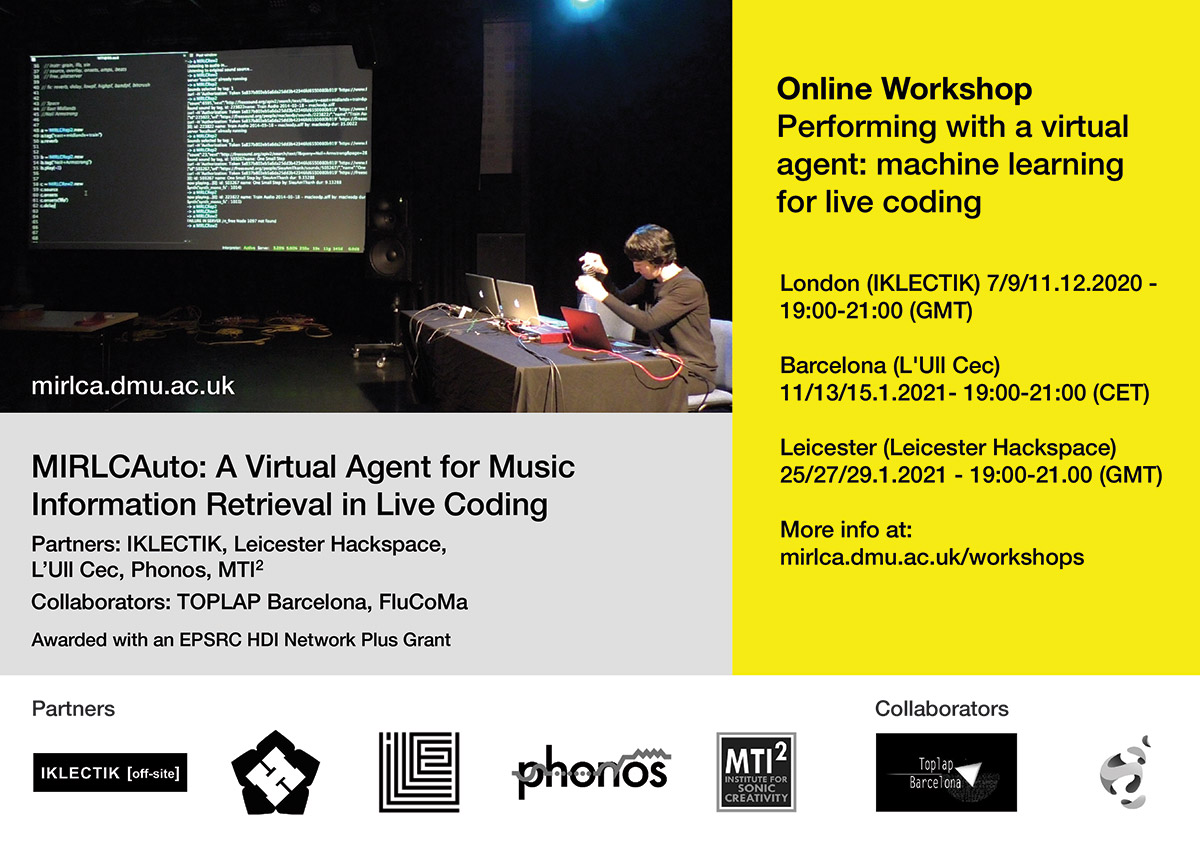
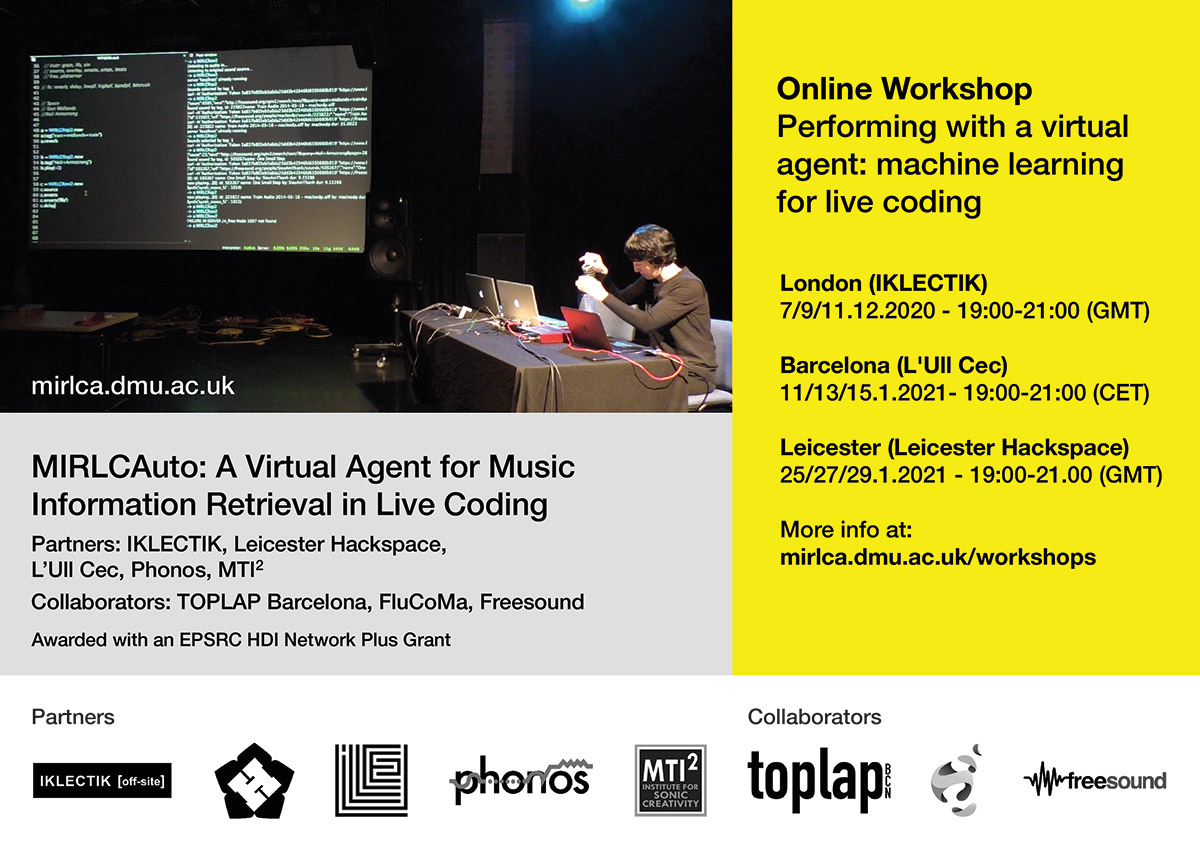
added blog post

diff --git a/css/index.css b/css/index.css
@@ -364,3 +364,17 @@ figcaption{
 .table-cell-left, .table-cell-right {
   padding: 0 1em 2em 0;
 }
+
+.darkhighlight{
+  background-color: #FFFF00;
+}
+
+.lighthighlight{
+  background-color: #FFFFCC;
+}
+
+.lighthighlightbox{
+  padding:1.5em 1.5em;background-color: #DEDEDE;
+  border-radius: 1em;
+  margin: 0 0 2em 0;
+}

diff --git a/posts/diferentes-sonidos-similares-entrevista-con-hernani-villasenor.md b/posts/diferentes-sonidos-similares-entrevista-con-hernani-villasenor.md
@@ -1,0 +1,66 @@
+---
+title: 'Diferentes Sonidos Similares: Una Entrevista con Hernani Villaseñor'
+author: Sam Roig y Anna Xambó
+description: "Este es el primer blog post de una serie de entrevistas con participantes del taller con l'ull cec sobre la continuación de un trabajo en progreso."
+date: 2021-01-28
+tags:
+  - research
+  - interviews
+  - videos
+  - live-coding sessions
+  - workshops
+layout: layouts/post.njk
+---
+
+<span class="lighthighlight">*You can read the interview in English [here](/posts/different-similar-sounds-interview-with-hernani-villasenor/)*</span>
+
+<figure>
+<img src="../../img/Hernani_Villasenor_photo_by_Alejandra_Alvarez.jpg" width="100%" class="responsive" />
+<figcaption>Hernani Villaseñor. Photo by Alejandra Alvarez.</figcaption>
+</figure>
+
+<div class="lighthighlightbox">
+
+**Hernani Villaseñor** es un músico mexicano interesado en sonido, código e improvisación. Actualmente está haciendo el doctorado en el Programa de Posgrado en Música de la Universidad Nacional Autónoma (UNAM) de México. Como músico, interpreta e improvisa música de computadora con código fuente en un rango que va desde el techno hasta el sonido experimental. Ha colaborado con diferentes artistas en el campo del cine, video experimental, fotografía y música en red. Ha actuado en muchos lugares y participado en diversas conferencias en países de América, Europa y el Ciberespacio. 
+[http://www.hernanivillasenor.com](http://www.hernanivillasenor.com) 
+
+</div>
+
+## Vídeo "Different Similar Sounds: A Virtual Agent in Live Coding. A Work in Progress"
+
+**Sobre el vídeo**: Live coding va sobre intentar y fallar. En este estado de ánimo, grabaré algunos intentos durante el proceso de probar y ensayar con una nueva herramienta de live coding en mi flujo de trabajo creativo. El video muestra un fragmento de tiempo del largo proceso que implica lidiar con el sonido, el código, la escucha y las formas de hacer. 
+
+<iframe class="responsive-video" width="640" height="361" src="https://www.youtube.com/embed/yv_6M-ssC0Q" frameborder="0" allow="accelerometer; autoplay; clipboard-write; encrypted-media; gyroscope; picture-in-picture" allowfullscreen>
+</iframe>
+
+## Cuéntanos un poco sobre ti y sobre tu práctica artística con live coding...
+
+Me llamo Hernani, soy músico y vivo en la ciudad de México, donde actualmente hago un doctorado en tecnología musical en la [UNAM](https://www.unam.mx/). Conocí el live coding en un taller de SuperCollider que tomé en el Centro Multimedia, en México, alrededor del 2009 y desde entonces me he involucrado en la práctica, la difusión y últimamente en la investigación y el desarrollo tecnológico. Me interesa el live coding desde cero, tanto solista como en grupo interconectado, por las posibilidades de auto aprendizaje e intercambio de conocimientos con las comunidades de practicantes. Mi aproximación al live coding es muy rítmica, me gusta usar patrones (Patterns) para secuenciar sintetizadores (SynthDef) y desde hace unos dos años he comenzado a trabajar con sonido grabado en el momentos mismo de las presentaciones. Para ello comencé a desarrollar una serie de clases y presentaciones bajo el concepto de SonoTexto (sonido + texto) en referencia al trabajo con señal de audio y código computacional.
+
+## Qué te motivó para apuntarte al taller?
+
+Primero que las personas que lo impartieron las conocí hace tiempo, en el ámbito del live coding, y me gusta su trabajo, de cierta forma he seguido el proyecto de MIRLC desde su primera versión, ya que estoy interesado en el live coding con sonidos situados, o sea, aquellos que la gente graba en su entorno con lo que tiene a la mano. Algo que también me interesó fue conocer las posibilidades del Machine Learning en el live coding y el acceso a bancos de sonidos grabados con las características que mencioné antes. Y por último, el hecho de escuchar de primera mano las ideas y conceptos detrás del desarrollo de esta tecnología.
+
+## Tenías alguna experiencia práctica previa con machine learning antes de atender este taller?
+
+No mucha, he leído acerca del tema y sigo el trabajo de algunxs artistas-programadorxs que hacen música e investigación al respecto, de quienes he aprendido términos y conceptos, viendo cómo realizan sus prácticas sonoras computacionales y escuchando su trabajo. También probé un poco estas técnicas durante un taller de [Sema](https://sema.codes/) el año pasado. Eso es todo, en realidad podría decir que en la práctica no he tenido experiencia hasta antes del taller.
+
+## Cómo has enfocado la producción de tu propuesta de vídeo?
+
+Partí del live coding from scratch, una práctica común en México. De esta forma aprendes cómo funciona un lenguaje a prueba y error, escribiendo directo en el documento y escuchando el resultado. Así que me dí a la tarea de explorar los tutoriales de MIRLCa, memorizar métodos y empezar a escribir al vuelo. Comencé entrenado algunos modelos y en este proceso traté de entender qué sucedía con el sonido en relación a los conjuntos de datos generados, esta parte fue algo confusa pero una vez que logré aproximaciones al 80% de precisión pasé a la parte de hacer live coding con la ayuda del agente generado.
+
+En la etapa posterior al entrenamiento probé varios flujos de trabajo, primero usé solo MIRLCa, luego traté de combinarla con una clase que escribí en SuperCollider para leer los archivos de sonido de una carpeta e incluso traté de realizar algunas rutinas para secuenciar los sonidos. Al final decidí usar la clase sola pues fue más fácil entender qué estaba sucediendo con los sonidos que descargaba el agente.
+
+Algo que me interesa mostrar en los streamings, además del código, es la acción de la escritura sobre el teclado. Así que para esta ocasión pensé que podía sobreponer dos editores: Emacs con fondo transparente corriendo MIRLCa y Atom debajo corriendo [Hydra](https://hydra.ojack.xyz/) para capturar la escritura con una cámara web. Con esta configuración hice varios videos con un software de captura de pantalla y escogí el que más me gustó.
+
+## Cómo te imaginas integrar la herramienta que hemos utilizado (MIRLCa) a tu trabajo?
+
+Me imagino dos formas: en el momento y posterior. La primera es con el agente de MIRLCa, tal cual está diseñado. Por un lado, la interfaz es simple y fácil de usar, por otro, es muy potente el concepto de trabajar con la totalidad de sonidos de una plataforma como [Freesound](https://freesound.org/). La segunda forma es explorar los sonidos que se descargan durante el proceso de entrenamiento del modelo, aquí pensaría en integrar MIRLCa con otras clases y lenguajes de programación para hacer live coding de diferentes maneras, por ejemplo, secuencias más complejas o el uso de envolventes.
+
+## Danos un ejemplo (especulativo) de cómo imaginas machine learning aplicado a la práctica de live coding en el futuro
+
+Me imagino el incremento de la oralidad en la práctica de live coding, tanto escrita como hablada, es decir, que el código del performance será de un nivel muy alto y casi siempre desde cero, como una conversación cotidiana. Al mismo tiempo creo que será posible manejar grandes cantidades de datos y procesamiento en el mismo momento de la presentación; en este sentido, me imagino una hiperparametrización del sonido y la imagen con muy pocos comandos. Es posible que a partir del habla podamos dictar los comandos a la computadora, en una especie de programación verbal. Por otro lado, el entrenamiento de modelos en vivo se acercará más a convertirse en el propio performance, algo que de cierta manera ya sucede. 
+
+## Tienes cualquier otra idea que te gustaría compartir con nosotrxs?
+
+Sí claro, hay que decir que el proceso durante el taller y la elaboración de este video es compartido, la facilidad que muestra el uso de esta tecnología depende del desarrollo de la herramienta, la escritura de los tutoriales, los sonidos que comparte la gente en Freesound, así como la retroalimentación y seguimiento que hicieron Anna y Sam, quienes contestaron nuestras preguntas, accedieron a cambiar el código de MIRLCa y escucharon nuestras ideas. Además de lo anterior, el trabajo final está inspirado por el intercambio de ideas entre quienes participamos en el taller. Creo que el resultado es un buen ejemplo del entusiasmo por compartir, aprender, enseñar y develar lo oculto de la tecnología, algo que el live coding ha absorbido de las culturas hacker y networking y que se ve reflejado en la investigación, el desarrollo tecnológico y la práctica artística tanto de manera formal como anárquica, que en palabras de Sam nos convierten, más que en live coders, en life coders. 

diff --git a/posts/different-similar-sounds-interview-with-hernani-villasenor.md b/posts/different-similar-sounds-interview-with-hernani-villasenor.md
@@ -1,0 +1,67 @@
+---
+title: 'Different Similar Sounds: An Interview with Hernani Villaseñor'
+author: Sam Roig and Anna Xambó
+description: "This is the first blog post of a series of interviews with workshop attendees from the workshop with l'ull cec about follow-up work in progress."
+date: 2021-01-28
+tags:
+  - research
+  - interviews
+  - videos
+  - live-coding sessions
+  - workshops
+layout: layouts/post.njk
+---
+
+<span class="lighthighlight">*You can read the original interview in Spanish [here](/posts/diferentes-sonidos-similares-entrevista-con-hernani-villasenor/)*</span>
+
+<figure>
+<img src="../../img/Hernani_Villasenor_photo_by_Alejandra_Alvarez.jpg" width="100%" class="responsive" />
+<figcaption>Hernani Villaseñor. Photo by Alejandra Alvarez.</figcaption>
+</figure>
+
+<div class="lighthighlightbox">
+
+**Hernani Villaseñor** is a Mexican musician interested in sound, code and improvisation. He is currently doing a PhD at the Music Graduate Program of the National Autonomous University (UNAM) of Mexico. As a musician he performs and improvises computer music with source code in a range from techno to experimental sound. He has collaborated with different artists in the field of cinema, experimental video, photography and network music. He has performed in many venues and participated in diverse conferences in countries of America, Europe and the Cyberspace.
+[http://www.hernanivillasenor.com](http://www.hernanivillasenor.com)
+
+</div>
+
+## Video "Different Similar Sounds: A Virtual Agent in Live Coding. A Work in Progress"
+
+**About the video**: Live coding is about try and fail. In this mood I will record some attempts during the process of trying and rehearsing with a new live coding tool in my creative workflow. The video shows a fragment of time of the long process that involves to deal with sound, code, listening and ways of doing.
+
+<iframe class="responsive-video" width="640" height="361" src="https://www.youtube.com/embed/yv_6M-ssC0Q" frameborder="0" allow="accelerometer; autoplay; clipboard-write; encrypted-media; gyroscope; picture-in-picture" allowfullscreen>
+</iframe>
+
+
+## Tell us a bit about you and your artistic practice in live coding...
+
+My name is Hernani. I'm a musician living in Mexico City, where I'm currently doing a PhD in music technology at [UNAM}(https://www.unam.mx/).  became acquainted with live coding in a SuperCollider workshop, which I took at the Centro Multimedia, in Mexico, around 2009. Since then, I've been involved in the practice, diffusion and lately in research and technological development. I am interested in live coding from scratch, both solo and in a networked group, because of the possibilities for self-learning and knowledge exchange with communities of practitioners. My approach to live coding is very rhythmic. I like to use patterns (Patterns) to sequence synthesizers (SynthDef). Since about two years ago I started to work with sounds recorded at the very moment of the performance. For this, I began to develop a series of classes and presentations under the concept of SonoText (sound + text) about working with an audio signal and computer code.
+
+## What motivated you to sign up for the workshop?
+
+First of all, I met the people who gave the workshop some time ago, in the live coding scene, and I like their work. Somehow, I have followed the MIRLC project since its first version. I am interested in live coding with situated sounds, that is, sounds recorded by people in their environment with what they have at hand. Something that also interested me was to learn about the possibilities of Machine Learning in live coding and the access to banks of recorded sounds with the characteristics I mentioned earlier. And finally, hearing first hand about the ideas and concepts behind the development of this technology.
+
+## Did you have any prior hands-on experience with machine learning before attending this workshop?
+
+Not much. I have read about it and follow works of some artists-programmers who make music and research about it. I have learned from them terms and concepts when seeing how they perform their computational sound practices and listening to their work. I also tried a little bit of these techniques during a [Sema](https://sema.codes/)  workshop last year. That's all, actually. I could say that, in practice, I have had no experience until this workshop.
+
+## How did you approach the production of your video submission?
+
+I started with live coding from scratch, a common practice in Mexico. This way, you learn how a language works by trial and error, writing directly in the document and listening to the result. So I set out to explore the MIRLCa tutorials, memorize methods and start writing on the fly. I began by training some models and, in this process, I tried to understand what was happening with the sound in relation to the generated datasets, this part was a bit confusing yet once I got close to 80% accuracy I moved on to the live coding part with the help of the generated agent.
+
+In the post-training stage, I tried several workflows. First, I used only MIRLCa, then I combined it with a class I wrote in SuperCollider to read the sound files from a folder. I even tried to make some routines to sequence the sounds. In the end, I decided to use the class alone as it was easier to understand what was happening with the sounds downloaded by the agent.
+
+Something that I am interested in showing in the streamings, besides the code, is the action of typing on the keyboard. So for this occasion, I thought I could superimpose two editors: Emacs with a transparent background running MIRLCa and, underneath, Atom running Hydra for capturing the typing with a webcam. I made several videos with this configuration using a screen capture software and chose the one I liked the most.
+
+## How do you envision integrating the tool we have used (MIRLCa) to your own work?
+
+I imagine two ways: at the moment and afterwards. The first one is with the MIRLCa agent, as it is designed. On the one hand, the interface is simple and easy to use. On the other hand, the concept of working with all the sounds of a platform like [Freesound](https://freesound.org/) is very powerful. The second way is to explore the sounds that are downloaded during the training process of the model. Here I would consider integrating MIRLCa with other classes and programming languages to do live coding in different ways. More complex sequences or the use of envelopes, for example.
+
+## Give us a (speculative) example of how you imagine machine learning being applied to the practice of live coding in the future.
+
+I imagine the increase of orality in the practice of live coding, both written and spoken. The performance code will be of a very high level, and almost always from scratch, as an everyday conversation. At the same time, I believe that it will be possible to handle large amounts of data and processing at the same moment of the presentation. In this sense, I imagine a hyper-parametrization of sound and image with very few commands. Possibly we will be able to dictate commands to the computer from speech, in a kind of verbal programming. On the other hand, the training of live models will come closer to becoming the performance itself, something that somehow it is already happening.
+
+## Do you have any other ideas that you would like to share with us?
+
+Yes, of course. It must be said that the process during the workshop and the elaboration of this video has been shared. The ease of use of this technology depends on: the development of the tool, the writing of the tutorials, and the sounds that people share in Freesound, as well as the feedback and follow-up that Anna and Sam did, who answered our questions, agreed to change the code of MIRLCa and listened to our ideas. In addition to the above, the final work is inspired by the exchange of ideas between those who participated in the workshop. I think the result is a good example of the enthusiasm for sharing, learning, teaching and unveiling the hidden side of technology, something that live coding has absorbed from hacker and network cultures. This is reflected in the research, technological development and artistic practice in both formal and anarchic ways, which in Sam's terms make us, more than live coders, life coders. 

diff --git a/workshops/index.md b/workshops/index.md
@@ -13,12 +13,12 @@ Please note that **the same workshop will be delivered online in collaboration w
 
 <!-- **<span style="background-color: #FFFF00">Registration to the Online Workshop is Open!!**</span> All participants are welcome to register to our forthcoming workshop completing the online registration at the following link: -->
 
-* **London (IKLECTIK) 7/9/11.12.2020 - 19:00-21:00 (GMT)**: Closed.
+* **London (IKLECTIK) 7/9/11.12.2020 - 19:00-21:00 (GMT)**: <span class="lighthighlight">Closed</span>.
 <br />
-* **Barcelona (L'Ull Cec) 11/13/15.1.2021- 19:00-21:00 (CET)**: Closed.
+* **Barcelona (L'Ull Cec) 11/13/15.1.2021- 19:00-21:00 (CET)**: <span class="lighthighlight">Closed</span>.
 A translation of this text to Catalan and Spanish can be found here: [**Catalan**](/workshops/ca/) | [**Spanish**](/workshops/sp/)
 <br />
-* **Leicester (Leicester Hackspace) 25/27/29.1.2021 - 19:00-21.00 (GMT)**: <br />  <span style="background-color: #FFFF00">[https://de-montfort.onlinesurveys.ac.uk/online-workshop-registration-mirlca-leicester-hackspace](https://de-montfort.onlinesurveys.ac.uk/online-workshop-registration-mirlca-leicester-hackspace)</span>
+* **Leicester (Leicester Hackspace) 25/27/29.1.2021 - 19:00-21.00 (GMT)**: <br /> <span class="lighthighlight">Closed</span>.
 
 
 <!-- * **London (IKLECTIK) 7/9/11.12.2020 - 19:00-21:00 (GMT)**:<br /> [https://de-montfort.onlinesurveys.ac.uk/online-workshop-registration-mirlca-london-iklectik](https://de-montfort.onlinesurveys.ac.uk/online-workshop-registration-mirlca-london-iklectik) (Closed) -->
@@ -81,7 +81,7 @@ This workshop is free, but pre-registration is required. All participants are we
 <!-- * **Barcelona (L'Ull Cec) 11/13/15.1.2021- 19:00-21:00 (CET)**: <br /> <span style="background-color: #FFFF00">[https://de-montfort.onlinesurveys.ac.uk/online-workshop-registration-mirlca-barcelona-lullcec](https://de-montfort.onlinesurveys.ac.uk/online-workshop-registration-mirlca-barcelona-lullcec)</span> -->
 <!-- A translation of this text to Catalan and Spanish can be found here: [**Catalan**](/workshops/ca/) | [**Spanish**](/workshops/sp/) -->
 <!-- <br /> -->
-* **Leicester (Leicester Hackspace) 25/27/29.1.2021 - 19:00-21.00 (GMT)**: <br />  <span style="background-color: #FFFF00">[https://de-montfort.onlinesurveys.ac.uk/online-workshop-registration-mirlca-leicester-hackspace](https://de-montfort.onlinesurveys.ac.uk/online-workshop-registration-mirlca-leicester-hackspace)</span>
+<!-- * **Leicester (Leicester Hackspace) 25/27/29.1.2021 - 19:00-21.00 (GMT)**: <br />  <span style="background-color: #FFFF00">[https://de-montfort.onlinesurveys.ac.uk/online-workshop-registration-mirlca-leicester-hackspace](https://de-montfort.onlinesurveys.ac.uk/online-workshop-registration-mirlca-leicester-hackspace)</span> -->
 
 
 ### Dates / Duration

diff --git a/workshops/sp/index.md b/workshops/sp/index.md
@@ -41,6 +41,11 @@ La actividad es gratuita, pero requiere inscripción previa. Puedes registrarte 
 
 Se enviarán las instrucciones de instalación a los registrados al taller antes de que comience el taller en la forma de texto o vídeo (principalmente relacionado con la instalación de SuperCollider, Freesound quark, MIRLC y las herramientas de FluCoMa). También se os enviará una invitación a la reunión en Zoom. Los/las participantes trabajarán en equipo (a través del entorno Zoom).
 
+### Instructores
+
+Sam Roig
+Anna Xambó
+
 ## Contacto
 
 Anna Xambó: anna.xambo@dmu.ac.uk

diff --git a/workshops/ca/index.md b/workshops/ca/index.md
@@ -42,6 +42,11 @@ L’activitat és gratuïta, però cal inscripció prèvia. Podeu registrar-vos 
 
 S'enviaran les instruccions d'instal.lació als enregistrats al taller abans de que comenci el taller en la forma de text o vídeo (principalment relacionat amb la instal.lació de SuperCollider, Freesound quark, MIRLC i les eines de FluCoMa). També se us enviarà una invitació a la reunió en Zoom. Els participants treballaran en equip (a través de l'entorn Zoom).
 
+### Instructors
+
+Sam Roig
+Anna Xambó
+
 ## Contacte
 
 Anna Xambó: anna.xambo@dmu.ac.uk
